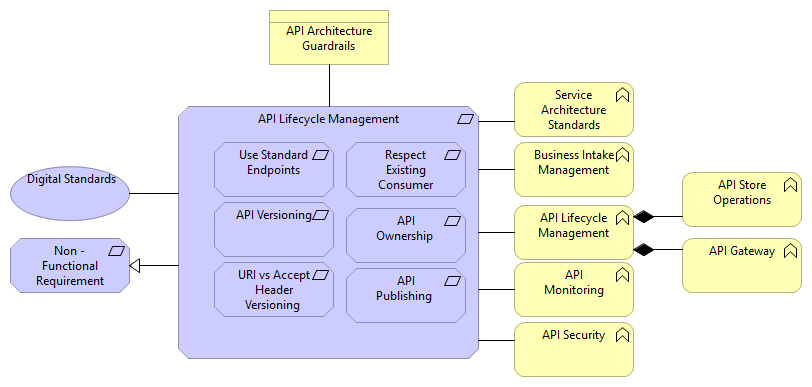
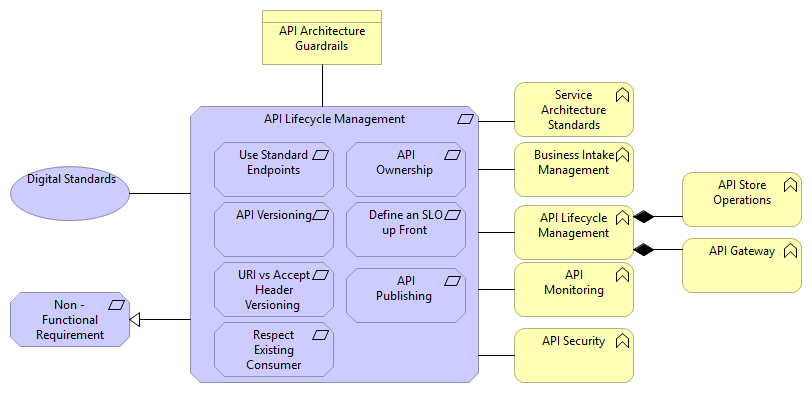
Conflict SLO

diff --git a/reports/CommonSandbox Report/e8ecca68-8692-400d-9425-b00d60784a26/elements/model.html b/reports/CommonSandbox Report/e8ecca68-8692-400d-9425-b00d60784a26/elements/model.html
@@ -2431,15 +2431,17 @@
 									dataFoldersContent.push({folderid:"0098779f-eaf3-4d47-a68a-16743a5b13a9", contentid:"82d74c3c-0028-4380-9b46-6bb7be39f7bd", contenttype:"Requirement"});
 										dataElements.push({id:"82d74c3c-0028-4380-9b46-6bb7be39f7bd", type:"Requirement", name:decodeURL("Use+Standard+Endpoints"), documentation:decodeURL("")});
 									dataFoldersContent.push({folderid:"0098779f-eaf3-4d47-a68a-16743a5b13a9", contentid:"9e5b47d4-a690-4a31-810d-819a1bebd28d", contenttype:"Requirement"});
-										dataElements.push({id:"9e5b47d4-a690-4a31-810d-819a1bebd28d", type:"Requirement", name:decodeURL("API+Versioning"), documentation:decodeURL("")});
+										dataElements.push({id:"9e5b47d4-a690-4a31-810d-819a1bebd28d", type:"Requirement", name:decodeURL("API+Versioning"), documentation:decodeURL("+each+iteration+of+an+API+that+changes+the+response+type%2C+data+format%2C+API+functionality+or+breaks+the+contract+with+consumers+must+be+versioned.+Follow+the+v%3CMajor%3E.%3CMinor%3E.%3CPatch%3E+versioning+structure+whereby%3A%0D%0A%09%09%09o+Major+%3D+Significant+release+that+introduces+incompatible+API+changes%0D%0A%09%09%09o+Minor+%3D+Addition+of+optional+attributes+or+new+functionality+that+is+backwards+compatible%2C+but+should+be+tested%0D%0A%09%09%09o+Patch+%3D+Internal+fix+which+should+not+impact+the+schema+and%2For+contract+of+the+API%0D%0A%09For+example%3A%0D%0A%09%09%09o+moving+from+v1.1.0+to+v1.1.1+would+allow+a+simple+deploy-in-place+upgrade%0D%0Amoving+from+v1.1.0+to+v2.0.0+would+be+a+major+release+and+would+require+the+legacy+version+to+be+kept+while+consumers+test+and+migrate+to+the+new+version")});
 									dataFoldersContent.push({folderid:"0098779f-eaf3-4d47-a68a-16743a5b13a9", contentid:"b2c0c98f-3ad2-4bcb-84ed-69cf6a05f653", contenttype:"Requirement"});
-										dataElements.push({id:"b2c0c98f-3ad2-4bcb-84ed-69cf6a05f653", type:"Requirement", name:decodeURL("URI+vs+Accept+Header+Versioning+"), documentation:decodeURL("")});
+										dataElements.push({id:"b2c0c98f-3ad2-4bcb-84ed-69cf6a05f653", type:"Requirement", name:decodeURL("URI+vs+Accept+Header+Versioning+"), documentation:decodeURL("both+URI+and+Accept+Header+versioning+are+acceptable+and+the+following+guidelines+are+recommended%3A%0D%0A%09%09%09o+Using+a+resource+specific+header+approach+can+be+used+to+maintain+a+single+and+consistent+URI+for+an+API.+This+method+also+allows+for+other+parameters+such+as+caching%2C+compression+and+content+negotiation%0D%0A%09%09%09o+The+base+URI+for+the+API+should+always+correspond+to+the+latest+version%0D%0A%09%09%09%09%09%C2%A7+e.g.+https%3A%2F%2Fapi.example.com%0D%0A%09%09%09o+Previous+versions+of+an+API+can+use+a+versioned+style+URI%0D%0A%09%09%09o+e.g.+https%3A%2F%2Fapi.example.com%2Fv1%0D%0AAccept+header+versioning+is+recommended+for+API%27s+designed+exclusively+for+machine+to+machine+interfaces+as+well+as+non+breaking+changes+%28minor%2Fpatch%29")});
 									dataFoldersContent.push({folderid:"0098779f-eaf3-4d47-a68a-16743a5b13a9", contentid:"ea0b6be4-0e17-4910-86f5-a1cc08759ff5", contenttype:"Requirement"});
-										dataElements.push({id:"ea0b6be4-0e17-4910-86f5-a1cc08759ff5", type:"Requirement", name:decodeURL("Respect+Existing+Consumer+Dependencies"), documentation:decodeURL("")});
+										dataElements.push({id:"ea0b6be4-0e17-4910-86f5-a1cc08759ff5", type:"Requirement", name:decodeURL("Respect+Existing+Consumer+Dependencies"), documentation:decodeURL("support+at+least+one+previous+major+version+%28N-1%29+to+ensure+consuming+systems+have+time+to+migrate+to+the+latest+version+of+the+API%0D%0A%09%09%09o+Set+and+publish+a+version+deprecation+policy+and+timeline+so+consumers+can+plan+their+dependencies+accordingly%0D%0A%09%09%09o+Ensure+adequate+testing+on+all+minor+and+major+releases%0D%0A%09%09%09o+Backport+high+value+changes+to+the+previous+%28N-1%29+version+where+version+integrity+can+be+maintained%0D%0AProvide+a+way+to+gather+feedback+from+consumers+to+inform+future+development")});
 									dataFoldersContent.push({folderid:"0098779f-eaf3-4d47-a68a-16743a5b13a9", contentid:"12dbddf9-732c-41be-9bec-aed1c452c69e", contenttype:"Requirement"});
-										dataElements.push({id:"12dbddf9-732c-41be-9bec-aed1c452c69e", type:"Requirement", name:decodeURL("API+Ownership+"), documentation:decodeURL("")});
+										dataElements.push({id:"12dbddf9-732c-41be-9bec-aed1c452c69e", type:"Requirement", name:decodeURL("API+Ownership+"), documentation:decodeURL("publish+and+maintain+a+designated+point+of+contact+to+the+API+Registry+as+part+of+the+metadata+record%3B+including+name%2C+organization%2C+email+and+phone+%28for+high+critically+API%27s%29")});
 									dataFoldersContent.push({folderid:"0098779f-eaf3-4d47-a68a-16743a5b13a9", contentid:"81a0c8f4-5e47-4042-ae47-7444718cf0e0", contenttype:"Requirement"});
-										dataElements.push({id:"81a0c8f4-5e47-4042-ae47-7444718cf0e0", type:"Requirement", name:decodeURL("API+Publishing+"), documentation:decodeURL("")});
+										dataElements.push({id:"81a0c8f4-5e47-4042-ae47-7444718cf0e0", type:"Requirement", name:decodeURL("API+Publishing+"), documentation:decodeURL("each+API+should+have+a+clearly+defined+Service+Level+Objective+%28SLO%29%2C+which+should+include%3A%0D%0A%09%09%09o+Support+contact+and+availability%0D%0A%09%09%09o+Service+uptime+objective+%28e.g.%2C+99%25%29%0D%0A%09%09%09o+Support+response+time+%28e.g.%2C+within+the+hour%2C+24+hours%2C+best+effort%29%0D%0A%09%09%09o+Scheduled+outages+%28e.g.%2C+nightly%2C+weekly%2C+every+2nd+Sunday+evening%29%0D%0A%09%09%09o+Throughput+limit+%28e.g.%2C+100+requests+per+second+per+consumer%29%0D%0A%09%09%09o+Message+size+limit+%28e.g.%2C+%3C1Mb+per+request%29%0D%0Aall+APIs+should+be+published+to+the+API+Registry+for+the+purposes+of+discovery+and+lifecycle+management.+APIs+must+be+tagged+with+the+appropriate+metadata+to+indicate+their+desired+audience+%28security+classification%29+and+appropriate+usage+patterns%0D%0A%09%09%09o+Publishing+a+metadata+record+to+the+Government+of+Canada+API+store+helps+people+discover+your+API+and+promote+its+use+https%3A%2F%2Fapi.canada.ca%2Fen%2Fhomepage%0D%0A%09%09%09o+If+the+API+is+an+Open+Data+API%2C+publish+a+terms+of+use%2C+such+as+the+example+found+here+https%3A%2F%2Fclmi-explore-icmt.ca%2Fviz%3Fpage%3Dnac-terms%26lang%3Den%0D%0A")});
+									dataFoldersContent.push({folderid:"0098779f-eaf3-4d47-a68a-16743a5b13a9", contentid:"e28749a0-9e9b-4b88-b94d-62d05f7b22e7", contenttype:"Requirement"});
+										dataElements.push({id:"e28749a0-9e9b-4b88-b94d-62d05f7b22e7", type:"Requirement", name:decodeURL("Define+an+SLO+up+Front+"), documentation:decodeURL("each+API+should+have+a+clearly+defined+Service+Level+Objective+%28SLO%29%2C+which+should+include%3A%0D%0A%09%09%09o+Support+contact+and+availability%0D%0A%09%09%09o+Service+uptime+objective+%28e.g.%2C+99%25%29%0D%0A%09%09%09o+Support+response+time+%28e.g.%2C+within+the+hour%2C+24+hours%2C+best+effort%29%0D%0A%09%09%09o+Scheduled+outages+%28e.g.%2C+nightly%2C+weekly%2C+every+2nd+Sunday+evening%29%0D%0A%09%09%09o+Throughput+limit+%28e.g.%2C+100+requests+per+second+per+consumer%29%0D%0A%09%09%09o+Message+size+limit+%28e.g.%2C+%3C1Mb+per+request%29%0D%0A")});
 
 								dataFoldersContent.push({folderid:"e8ecca68-8692-400d-9425-b00d60784a26", contentid:"62a4c1d2-579d-448f-8ca7-90420c9e16a5", contenttype:"Folder"});
 								dataFolders.push({id:"62a4c1d2-579d-448f-8ca7-90420c9e16a5", type:"Folder", name:decodeURL("Implementation+%26+Migration"), documentation:decodeURL("")});
@@ -5357,6 +5359,8 @@
 										dataRelationships.push({id:"eabb2e7e-9263-4f31-a20d-c018065ac6d1", type:"SpecializationRelationship", name:decodeURL(""), documentation:decodeURL(""), sourceid:"97283225-f9a6-4604-8772-d60298f6017f", targetid:"f72a2a44-a6c2-4779-9cc0-75b9f423f653"});
 									dataFoldersContent.push({folderid:"964c78d0-4d5e-480d-870a-c6e4ef8a9043", contentid:"9b2aa525-4d35-4991-84b8-ca71e8fb64e5", contenttype:"AssociationRelationship"});
 										dataRelationships.push({id:"9b2aa525-4d35-4991-84b8-ca71e8fb64e5", type:"AssociationRelationship", name:decodeURL(""), documentation:decodeURL(""), sourceid:"521f8a36-07e7-4645-8e75-2a3047c99399", targetid:"97283225-f9a6-4604-8772-d60298f6017f"});
+									dataFoldersContent.push({folderid:"964c78d0-4d5e-480d-870a-c6e4ef8a9043", contentid:"ce88c66f-f887-49d5-adcd-a53f1bcc02cc", contenttype:"CompositionRelationship"});
+										dataRelationships.push({id:"ce88c66f-f887-49d5-adcd-a53f1bcc02cc", type:"CompositionRelationship", name:decodeURL(""), documentation:decodeURL(""), sourceid:"97283225-f9a6-4604-8772-d60298f6017f", targetid:"e28749a0-9e9b-4b88-b94d-62d05f7b22e7"});
 
 								dataFoldersContent.push({folderid:"e8ecca68-8692-400d-9425-b00d60784a26", contentid:"ab3b8318-9412-45a2-b596-d82d60848e7e", contenttype:"Folder"});
 								dataFolders.push({id:"ab3b8318-9412-45a2-b596-d82d60848e7e", type:"Folder", name:decodeURL("Views"), documentation:decodeURL("")});
@@ -9834,7 +9838,7 @@
 
 
 									dataFoldersContent.push({folderid:"ab3b8318-9412-45a2-b596-d82d60848e7e", contentid:"68f84804-90e4-4231-b574-073085720edc", contenttype:"ArchimateDiagramModel"});
-										dataViews.push({id:"68f84804-90e4-4231-b574-073085720edc", type:"ArchimateDiagramModel", name:decodeURL("API+Lifecycle+Management"), documentation:decodeURL("")});
+										dataViews.push({id:"68f84804-90e4-4231-b574-073085720edc", type:"ArchimateDiagramModel", name:decodeURL("API+Lifecycle+Management"), documentation:decodeURL("each+endpoint+is+a+combination+of+the+URI+path+and+the+verb+%28e.g.+GET%2C+PUT%2C+POST%2C+DELETE%29%0D%0A%09https%3A%2F%2F+%3Cbase+domain%3E%2F%3Cbusiness+function%3E%2F%3Capplication+name%3E%2F%3Cplural+noun%3E%0D%0A")});
 												dataViewsContent.push({viewid:"68f84804-90e4-4231-b574-073085720edc", contentid:"ac4059ec-ea0a-4d70-8880-3f88aa42a9f4", contenttype:"DiagramModelArchimateObject"});
 												dataViewsContent.push({viewid:"68f84804-90e4-4231-b574-073085720edc", contentid:"7e6247c4-bbf7-486d-a9fb-495cbcb8648f", contenttype:"DiagramModelArchimateObject"});
 														dataViewsContent.push({viewid:"68f84804-90e4-4231-b574-073085720edc", contentid:"1aeab158-0c98-40e8-9bb7-6f5d5e64712c", contenttype:"DiagramModelArchimateObject"});
@@ -9843,6 +9847,7 @@
 														dataViewsContent.push({viewid:"68f84804-90e4-4231-b574-073085720edc", contentid:"998e0c07-b541-4f33-9863-f5e88a4ba9b9", contenttype:"DiagramModelArchimateObject"});
 														dataViewsContent.push({viewid:"68f84804-90e4-4231-b574-073085720edc", contentid:"d1d5c05f-31b6-47a2-b054-995cc47a4633", contenttype:"DiagramModelArchimateObject"});
 														dataViewsContent.push({viewid:"68f84804-90e4-4231-b574-073085720edc", contentid:"4df116d6-8b3c-4659-b032-f7b8236ab024", contenttype:"DiagramModelArchimateObject"});
+														dataViewsContent.push({viewid:"68f84804-90e4-4231-b574-073085720edc", contentid:"aade47cd-0003-41d5-bc5d-a87493ee9eda", contenttype:"DiagramModelArchimateObject"});
 												
 												dataViewsContent.push({viewid:"68f84804-90e4-4231-b574-073085720edc", contentid:"2881b2d4-620a-4532-8af4-75678384fec2", contenttype:"DiagramModelArchimateObject"});
 												dataViewsContent.push({viewid:"68f84804-90e4-4231-b574-073085720edc", contentid:"f02343e7-7a13-429e-a663-500995acfeee", contenttype:"DiagramModelArchimateObject"});
@@ -9868,6 +9873,7 @@
 																		dataViewsContent.push({viewid:"68f84804-90e4-4231-b574-073085720edc", contentid:"34b8aa98-f1c0-4e7f-b024-b86bddc9a539", contenttype:"DiagramModelArchimateConnection"});
 																		dataViewsContent.push({viewid:"68f84804-90e4-4231-b574-073085720edc", contentid:"c7757636-871d-4061-82f2-6b04019a044f", contenttype:"DiagramModelArchimateConnection"});
 																		dataViewsContent.push({viewid:"68f84804-90e4-4231-b574-073085720edc", contentid:"f749723c-0b9d-4788-9d0a-a30317529ca3", contenttype:"DiagramModelArchimateConnection"});
+																		dataViewsContent.push({viewid:"68f84804-90e4-4231-b574-073085720edc", contentid:"8d357aa8-e3f6-43f0-8688-37b623661633", contenttype:"DiagramModelArchimateConnection"});
 
 												
 																		dataViewsContent.push({viewid:"68f84804-90e4-4231-b574-073085720edc", contentid:"de85fb06-d47f-4635-84bc-feee528e45ba", contenttype:"DiagramModelArchimateConnection"});

diff --git a/reports/CommonSandbox Report/e8ecca68-8692-400d-9425-b00d60784a26/views/68f84804-90e4-4231-b574-073085720edc.html b/reports/CommonSandbox Report/e8ecca68-8692-400d-9425-b00d60784a26/views/68f84804-90e4-4231-b574-073085720edc.html
@@ -37,20 +37,21 @@
 				  		<area shape="rect" coords="514,262,634,317" href="../elements/04d56aa3-18de-492c-98e1-2210b579a014.html"  target="element">
 				  		<area shape="rect" coords="682,238,802,293" href="../elements/e3cb1cd0-68de-4334-bd8a-72fad5192d3a.html"  target="element">
 				  		<area shape="rect" coords="682,172,802,227" href="../elements/8dbe7640-bc53-40be-b285-6e416640261f.html"  target="element">
-				  		<area shape="rect" coords="514,322,634,377" href="../elements/1735b795-333f-4652-baeb-3d216f5b0dd3.html"  target="element">
+				  		<area shape="rect" coords="514,328,634,383" href="../elements/1735b795-333f-4652-baeb-3d216f5b0dd3.html"  target="element">
 				  		<area shape="rect" coords="514,205,634,260" href="../elements/1ffed886-217c-444f-9a2d-9b24f25cc898.html"  target="element">
 				  		<area shape="rect" coords="514,82,634,137" href="../elements/f0fcaa17-75d5-41ce-90e9-71ad8bfb59b5.html"  target="element">
 				  		<area shape="rect" coords="514,142,634,197" href="../elements/c0d19d7d-90bf-4fbb-b8d4-4c0a3e902ef8.html"  target="element">
-				  		<area shape="rect" coords="269,10,389,65" href="../elements/b473190d-b5e1-4655-8c3f-bf87099ce8be.html"  target="element">
-				  		<area shape="rect" coords="10,238,130,293" href="../elements/f72a2a44-a6c2-4779-9cc0-75b9f423f653.html"  target="element">
+				  		<area shape="rect" coords="262,10,382,65" href="../elements/b473190d-b5e1-4655-8c3f-bf87099ce8be.html"  target="element">
+				  		<area shape="rect" coords="10,292,130,347" href="../elements/f72a2a44-a6c2-4779-9cc0-75b9f423f653.html"  target="element">
+				  				<area shape="rect" coords="346,202,466,257" href="../elements/e28749a0-9e9b-4b88-b94d-62d05f7b22e7.html"  target="element">
 				  				<area shape="rect" coords="214,202,334,257" href="../elements/9e5b47d4-a690-4a31-810d-819a1bebd28d.html"  target="element">
 				  				<area shape="rect" coords="346,268,466,323" href="../elements/81a0c8f4-5e47-4042-ae47-7444718cf0e0.html"  target="element">
-				  				<area shape="rect" coords="346,208,466,263" href="../elements/12dbddf9-732c-41be-9bec-aed1c452c69e.html"  target="element">
+				  				<area shape="rect" coords="346,142,466,197" href="../elements/12dbddf9-732c-41be-9bec-aed1c452c69e.html"  target="element">
 				  				<area shape="rect" coords="214,142,334,197" href="../elements/82d74c3c-0028-4380-9b46-6bb7be39f7bd.html"  target="element">
-				  				<area shape="rect" coords="346,142,466,197" href="../elements/ea0b6be4-0e17-4910-86f5-a1cc08759ff5.html"  target="element">
+				  				<area shape="rect" coords="214,322,334,377" href="../elements/ea0b6be4-0e17-4910-86f5-a1cc08759ff5.html"  target="element">
 				  				<area shape="rect" coords="214,262,334,317" href="../elements/b2c0c98f-3ad2-4bcb-84ed-69cf6a05f653.html"  target="element">
 
-				  		<area shape="rect" coords="178,106,479,359" href="../elements/97283225-f9a6-4604-8772-d60298f6017f.html"  target="element">
+				  		<area shape="rect" coords="190,106,479,383" href="../elements/97283225-f9a6-4604-8772-d60298f6017f.html"  target="element">
 				  		<area shape="rect" coords="10,166,130,221" href="../elements/521f8a36-07e7-4645-8e75-2a3047c99399.html"  target="element">
 
 			   </map>
@@ -72,7 +73,9 @@
 				<!-- Tab panes -->
 				<div class="tab-content">
 					<div role="tabpanel" class="tab-pane active" id="documentation">
-						<textarea id="docsrc" style="display:none"></textarea>
+						<textarea id="docsrc" style="display:none">each endpoint is a combination of the URI path and the verb (e.g. GET, PUT, POST, DELETE)
+	https:// &lt;base domain&gt;/&lt;business function&gt;/&lt;application name&gt;/&lt;plural noun&gt;
+</textarea>
 						<div id="doctgt" style="white-space:pre-wrap"></div>
 					</div>
 					<div role="tabpanel" class="tab-pane" id="properties">
@@ -134,6 +137,11 @@
 													<tr>
 													    <td> <a href="../elements/9e5b47d4-a690-4a31-810d-819a1bebd28d.html" target="element"> API Versioning </a> </td>
 													    <td> <a href="../elements/9e5b47d4-a690-4a31-810d-819a1bebd28d.html" target="element" class="i18n-elementtype-Requirement"> </a> </td>
+													</tr>
+
+													<tr>
+													    <td> <a href="../elements/e28749a0-9e9b-4b88-b94d-62d05f7b22e7.html" target="element"> Define an SLO up Front  </a> </td>
+													    <td> <a href="../elements/e28749a0-9e9b-4b88-b94d-62d05f7b22e7.html" target="element" class="i18n-elementtype-Requirement"> </a> </td>
 													</tr>
 
 											
@@ -275,6 +283,12 @@
 																		<td> <a href="../elements/eabb2e7e-9263-4f31-a20d-c018065ac6d1.html" target="element" class="i18n-elementtype-SpecializationRelationship"></a> </td>
 																		<td> <a href="../elements/97283225-f9a6-4604-8772-d60298f6017f.html" target="element"> API Lifecycle Management </a> </td>
 																		<td> <a href="../elements/f72a2a44-a6c2-4779-9cc0-75b9f423f653.html" target="element"> Non - Functional Requirement </a> </td>
+																	</tr>
+																	<tr>
+																		<td> <a href="../elements/ce88c66f-f887-49d5-adcd-a53f1bcc02cc.html" target="element">  </a> </td>
+																		<td> <a href="../elements/ce88c66f-f887-49d5-adcd-a53f1bcc02cc.html" target="element" class="i18n-elementtype-CompositionRelationship"></a> </td>
+																		<td> <a href="../elements/97283225-f9a6-4604-8772-d60298f6017f.html" target="element"> API Lifecycle Management </a> </td>
+																		<td> <a href="../elements/e28749a0-9e9b-4b88-b94d-62d05f7b22e7.html" target="element"> Define an SLO up Front  </a> </td>
 																	</tr>
 
 											

diff --git a/reports/CommonSandbox Report/e8ecca68-8692-400d-9425-b00d60784a26/elements/ce88c66f-f887-49d5-adcd-a53f1bcc02cc.html b/reports/CommonSandbox Report/e8ecca68-8692-400d-9425-b00d60784a26/elements/ce88c66f-f887-49d5-adcd-a53f1bcc02cc.html
@@ -2,7 +2,7 @@
 <html class="frame" lang="en">
 <head>
 	<meta http-equiv="Content-Type" content="text/html;charset=utf-8">
-	<title>API Ownership </title>
+	<title></title>
 
 	<!-- JQUERY (use 1.x branch to be compatible with IE 6/7/8) -->
 	<script type="text/javascript" src="../../lib/jquery/js/jquery-1.11.2.min.js"></script>
@@ -22,11 +22,10 @@
 
 		<div class="panel-heading root-panel-heading">
             <!-- Name -->
-               <b>API Ownership </b>
-
+               <b class="i18n-elementtype-CompositionRelationship"></b>
             <!-- If a View with Viewpoint -->
-			   (<span class="i18n-elementtype-Requirement"></span>)
-			   <a class="glyphicon glyphicon-info-sign" id="hint-Requirement" target="hint"></a>
+			   (<span class="i18n-elementtype-CompositionRelationship"></span>)
+			   <a class="glyphicon glyphicon-info-sign" id="hint-CompositionRelationship" target="hint"></a>
 		</div>
 
 		<div class="panel-body root-panel-body">
@@ -46,7 +45,17 @@
 				<!-- Tab panes -->
 				<div class="tab-content">
 					<div role="tabpanel" class="tab-pane active" id="documentation">
-						<textarea id="docsrc" style="display:none">publish and maintain a designated point of contact to the API Registry as part of the metadata record; including name, organization, email and phone (for high critically API's)</textarea>
+							<br>
+							<b class="i18n-relation-source"></b>
+								<a href="../elements/97283225-f9a6-4604-8772-d60298f6017f.html" target="element">
+									API Lifecycle Management
+								</a> <br>
+							<b class="i18n-relation-target"></b>
+								<a href="../elements/e28749a0-9e9b-4b88-b94d-62d05f7b22e7.html" target="element">
+									Define an SLO up Front 
+								</a> <br>
+							<br>
+						<textarea id="docsrc" style="display:none"></textarea>
 						<div id="doctgt" style="white-space:pre-wrap"></div>
 					</div>
 					<div role="tabpanel" class="tab-pane" id="properties">

diff --git a/reports/CommonSandbox Report/e8ecca68-8692-400d-9425-b00d60784a26/elements/e28749a0-9e9b-4b88-b94d-62d05f7b22e7.html b/reports/CommonSandbox Report/e8ecca68-8692-400d-9425-b00d60784a26/elements/e28749a0-9e9b-4b88-b94d-62d05f7b22e7.html
@@ -2,7 +2,7 @@
 <html class="frame" lang="en">
 <head>
 	<meta http-equiv="Content-Type" content="text/html;charset=utf-8">
-	<title>API Ownership </title>
+	<title>Define an SLO up Front </title>
 
 	<!-- JQUERY (use 1.x branch to be compatible with IE 6/7/8) -->
 	<script type="text/javascript" src="../../lib/jquery/js/jquery-1.11.2.min.js"></script>
@@ -22,7 +22,7 @@
 
 		<div class="panel-heading root-panel-heading">
             <!-- Name -->
-               <b>API Ownership </b>
+               <b>Define an SLO up Front </b>
 
             <!-- If a View with Viewpoint -->
 			   (<span class="i18n-elementtype-Requirement"></span>)
@@ -46,7 +46,14 @@
 				<!-- Tab panes -->
 				<div class="tab-content">
 					<div role="tabpanel" class="tab-pane active" id="documentation">
-						<textarea id="docsrc" style="display:none">publish and maintain a designated point of contact to the API Registry as part of the metadata record; including name, organization, email and phone (for high critically API's)</textarea>
+						<textarea id="docsrc" style="display:none">each API should have a clearly defined Service Level Objective (SLO), which should include:
+			o Support contact and availability
+			o Service uptime objective (e.g., 99%)
+			o Support response time (e.g., within the hour, 24 hours, best effort)
+			o Scheduled outages (e.g., nightly, weekly, every 2nd Sunday evening)
+			o Throughput limit (e.g., 100 requests per second per consumer)
+			o Message size limit (e.g., &lt;1Mb per request)
+</textarea>
 						<div id="doctgt" style="white-space:pre-wrap"></div>
 					</div>
 					<div role="tabpanel" class="tab-pane" id="properties">

diff --git a/reports/CommonSandbox Report/index.html b/reports/CommonSandbox Report/index.html
@@ -1223,6 +1223,7 @@
 													<li class="tree-element"><a href="e8ecca68-8692-400d-9425-b00d60784a26/elements/ea0b6be4-0e17-4910-86f5-a1cc08759ff5.html" target="element"> Respect Existing Consumer Dependencies </a></li>
 													<li class="tree-element"><a href="e8ecca68-8692-400d-9425-b00d60784a26/elements/12dbddf9-732c-41be-9bec-aed1c452c69e.html" target="element"> API Ownership  </a></li>
 													<li class="tree-element"><a href="e8ecca68-8692-400d-9425-b00d60784a26/elements/81a0c8f4-5e47-4042-ae47-7444718cf0e0.html" target="element"> API Publishing  </a></li>
+													<li class="tree-element"><a href="e8ecca68-8692-400d-9425-b00d60784a26/elements/e28749a0-9e9b-4b88-b94d-62d05f7b22e7.html" target="element"> Define an SLO up Front  </a></li>
 
 									</ul>
 								</li>
@@ -6633,6 +6634,10 @@
 													<li class="tree-element"><a href="e8ecca68-8692-400d-9425-b00d60784a26/elements/9b2aa525-4d35-4991-84b8-ca71e8fb64e5.html" target="element">
 															<span class="i18n-elementtype-AssociationRelationship"></span>
 														( Digital Standards - API Lifecycle Management) 
+													</a></li>
+													<li class="tree-element"><a href="e8ecca68-8692-400d-9425-b00d60784a26/elements/ce88c66f-f887-49d5-adcd-a53f1bcc02cc.html" target="element">
+															<span class="i18n-elementtype-CompositionRelationship"></span>
+														(API Lifecycle Management - Define an SLO up Front ) 
 													</a></li>
 
 									</ul>

diff --git a/reports/CommonSandbox Report/e8ecca68-8692-400d-9425-b00d60784a26/elements/81a0c8f4-5e47-4042-ae47-7444718cf0e0.html b/reports/CommonSandbox Report/e8ecca68-8692-400d-9425-b00d60784a26/elements/81a0c8f4-5e47-4042-ae47-7444718cf0e0.html
@@ -46,7 +46,17 @@
 				<!-- Tab panes -->
 				<div class="tab-content">
 					<div role="tabpanel" class="tab-pane active" id="documentation">
-						<textarea id="docsrc" style="display:none"></textarea>
+						<textarea id="docsrc" style="display:none">each API should have a clearly defined Service Level Objective (SLO), which should include:
+			o Support contact and availability
+			o Service uptime objective (e.g., 99%)
+			o Support response time (e.g., within the hour, 24 hours, best effort)
+			o Scheduled outages (e.g., nightly, weekly, every 2nd Sunday evening)
+			o Throughput limit (e.g., 100 requests per second per consumer)
+			o Message size limit (e.g., &lt;1Mb per request)
+all APIs should be published to the API Registry for the purposes of discovery and lifecycle management. APIs must be tagged with the appropriate metadata to indicate their desired audience (security classification) and appropriate usage patterns
+			o Publishing a metadata record to the Government of Canada API store helps people discover your API and promote its use https://api.canada.ca/en/homepage
+			o If the API is an Open Data API, publish a terms of use, such as the example found here https://clmi-explore-icmt.ca/viz?page=nac-terms&amp;lang=en
+</textarea>
 						<div id="doctgt" style="white-space:pre-wrap"></div>
 					</div>
 					<div role="tabpanel" class="tab-pane" id="properties">

diff --git a/reports/CommonSandbox Report/e8ecca68-8692-400d-9425-b00d60784a26/elements/9e5b47d4-a690-4a31-810d-819a1bebd28d.html b/reports/CommonSandbox Report/e8ecca68-8692-400d-9425-b00d60784a26/elements/9e5b47d4-a690-4a31-810d-819a1bebd28d.html
@@ -46,7 +46,13 @@
 				<!-- Tab panes -->
 				<div class="tab-content">
 					<div role="tabpanel" class="tab-pane active" id="documentation">
-						<textarea id="docsrc" style="display:none"></textarea>
+						<textarea id="docsrc" style="display:none"> each iteration of an API that changes the response type, data format, API functionality or breaks the contract with consumers must be versioned. Follow the v&lt;Major&gt;.&lt;Minor&gt;.&lt;Patch&gt; versioning structure whereby:
+			o Major = Significant release that introduces incompatible API changes
+			o Minor = Addition of optional attributes or new functionality that is backwards compatible, but should be tested
+			o Patch = Internal fix which should not impact the schema and/or contract of the API
+	For example:
+			o moving from v1.1.0 to v1.1.1 would allow a simple deploy-in-place upgrade
+moving from v1.1.0 to v2.0.0 would be a major release and would require the legacy version to be kept while consumers test and migrate to the new version</textarea>
 						<div id="doctgt" style="white-space:pre-wrap"></div>
 					</div>
 					<div role="tabpanel" class="tab-pane" id="properties">

diff --git a/reports/CommonSandbox Report/e8ecca68-8692-400d-9425-b00d60784a26/elements/b2c0c98f-3ad2-4bcb-84ed-69cf6a05f653.html b/reports/CommonSandbox Report/e8ecca68-8692-400d-9425-b00d60784a26/elements/b2c0c98f-3ad2-4bcb-84ed-69cf6a05f653.html
@@ -46,7 +46,13 @@
 				<!-- Tab panes -->
 				<div class="tab-content">
 					<div role="tabpanel" class="tab-pane active" id="documentation">
-						<textarea id="docsrc" style="display:none"></textarea>
+						<textarea id="docsrc" style="display:none">both URI and Accept Header versioning are acceptable and the following guidelines are recommended:
+			o Using a resource specific header approach can be used to maintain a single and consistent URI for an API. This method also allows for other parameters such as caching, compression and content negotiation
+			o The base URI for the API should always correspond to the latest version
+					&#167; e.g. https://api.example.com
+			o Previous versions of an API can use a versioned style URI
+			o e.g. https://api.example.com/v1
+Accept header versioning is recommended for API's designed exclusively for machine to machine interfaces as well as non breaking changes (minor/patch)</textarea>
 						<div id="doctgt" style="white-space:pre-wrap"></div>
 					</div>
 					<div role="tabpanel" class="tab-pane" id="properties">

diff --git a/reports/CommonSandbox Report/e8ecca68-8692-400d-9425-b00d60784a26/elements/ea0b6be4-0e17-4910-86f5-a1cc08759ff5.html b/reports/CommonSandbox Report/e8ecca68-8692-400d-9425-b00d60784a26/elements/ea0b6be4-0e17-4910-86f5-a1cc08759ff5.html
@@ -46,7 +46,11 @@
 				<!-- Tab panes -->
 				<div class="tab-content">
 					<div role="tabpanel" class="tab-pane active" id="documentation">
-						<textarea id="docsrc" style="display:none"></textarea>
+						<textarea id="docsrc" style="display:none">support at least one previous major version (N-1) to ensure consuming systems have time to migrate to the latest version of the API
+			o Set and publish a version deprecation policy and timeline so consumers can plan their dependencies accordingly
+			o Ensure adequate testing on all minor and major releases
+			o Backport high value changes to the previous (N-1) version where version integrity can be maintained
+Provide a way to gather feedback from consumers to inform future development</textarea>
 						<div id="doctgt" style="white-space:pre-wrap"></div>
 					</div>
 					<div role="tabpanel" class="tab-pane" id="properties">
